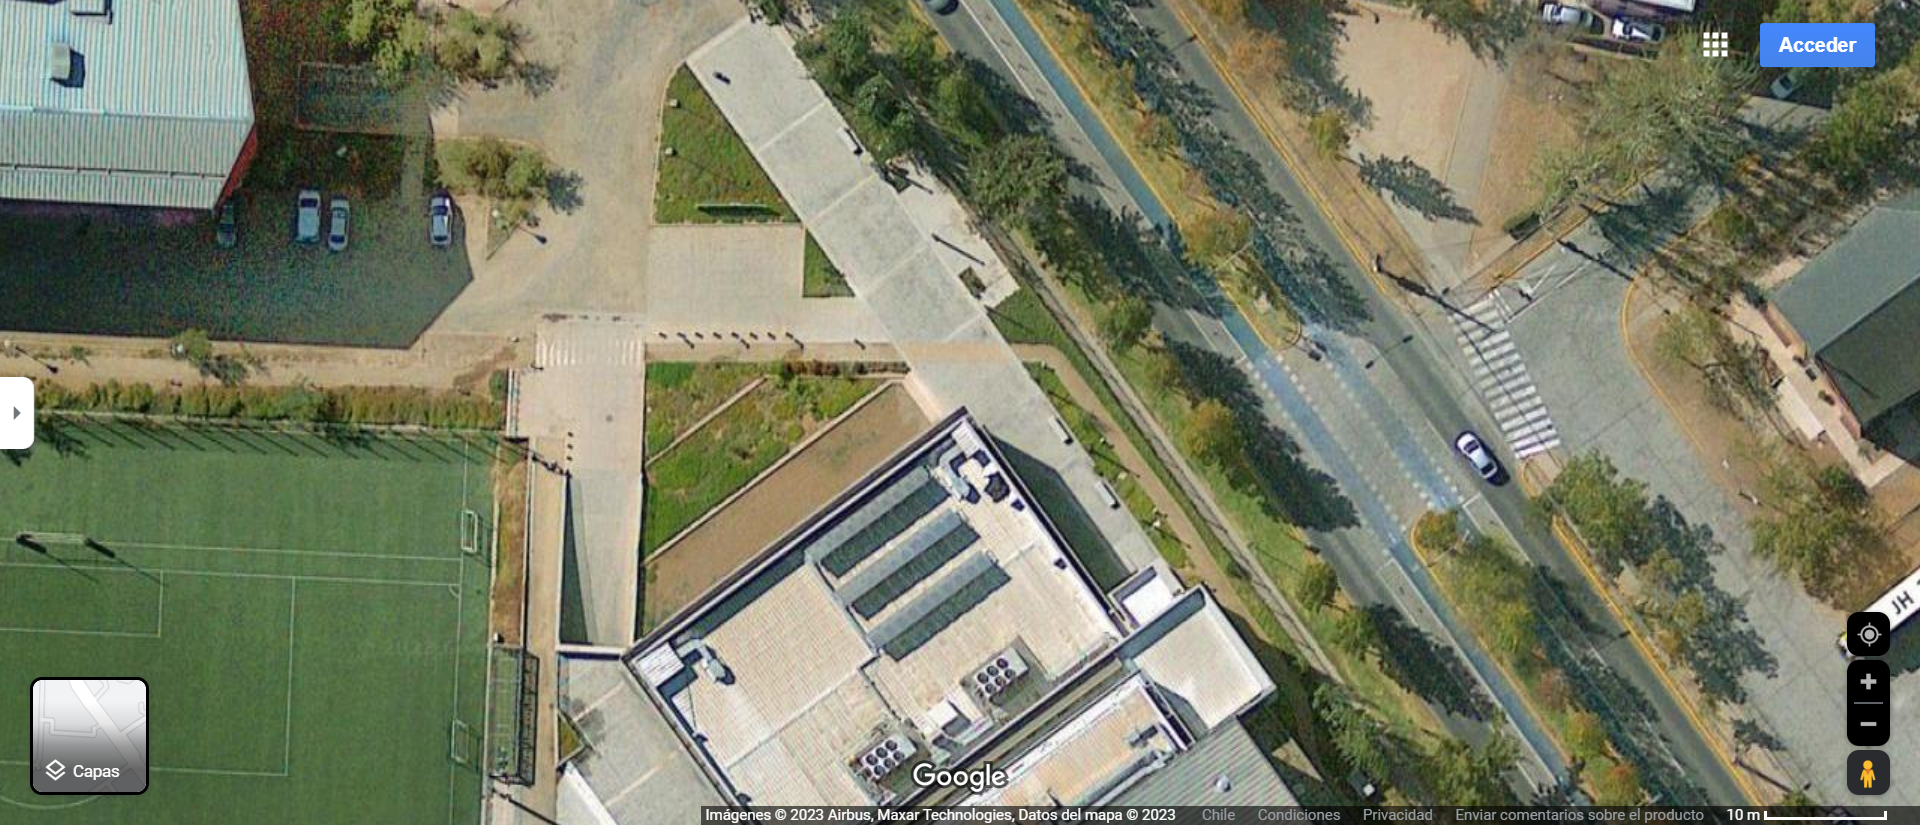
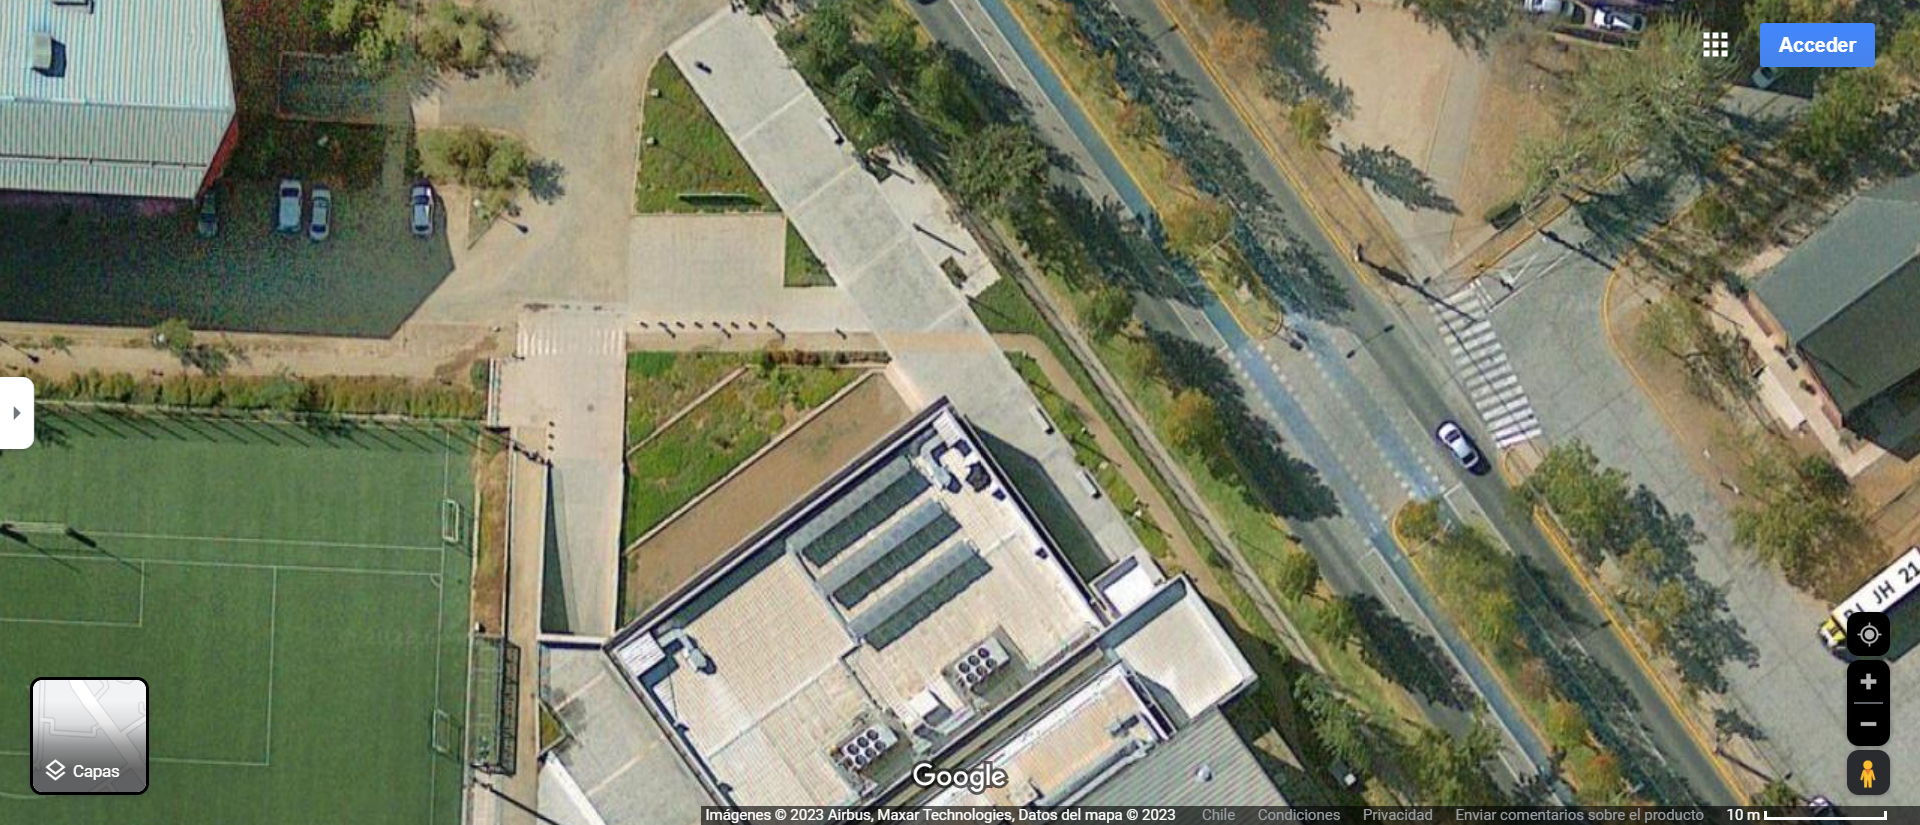
Tag removal bug-fix
Fixed bug that removes the tags

diff --git a/googleMapsBot.py b/googleMapsBot.py
@@ -3,7 +3,6 @@ from selenium.webdriver.common.by import By
 from selenium.webdriver.common.keys import Keys
 from selenium.webdriver.common.action_chains import ActionChains
 
-from PIL import Image
 import time
 import sys
 
@@ -62,17 +61,17 @@ with open(coordinates_file,"r") as file:
         #Click more button to get more options
         more_button = browser.find_element(By.XPATH,'//*[@id="layer-switcher-quick"]/div/div/div/ul/li[5]/button')
         more_button.click()
-        time.sleep(1)
+        time.sleep(2)
 
         #Click checkbox to erase tags from the map
         tag_checkbox = browser.find_element(By.XPATH,'//*[@id="layer-switcher"]/div/div/div/div[4]/ul/li[2]/button')
         tag_checkbox.click()
-        time.sleep(1)
+        time.sleep(2)
 
         #Close the hovered window
         close_button = browser.find_element(By.XPATH,'//*[@id="layer-switcher"]/div/div/div/div[1]/header/button')
         close_button.click()
-        time.sleep(1)
+        time.sleep(2)
 
         #Center the image by dragging the map
         maps = browser.find_element(By.XPATH,'//*[@id="scene"]/div[3]')
